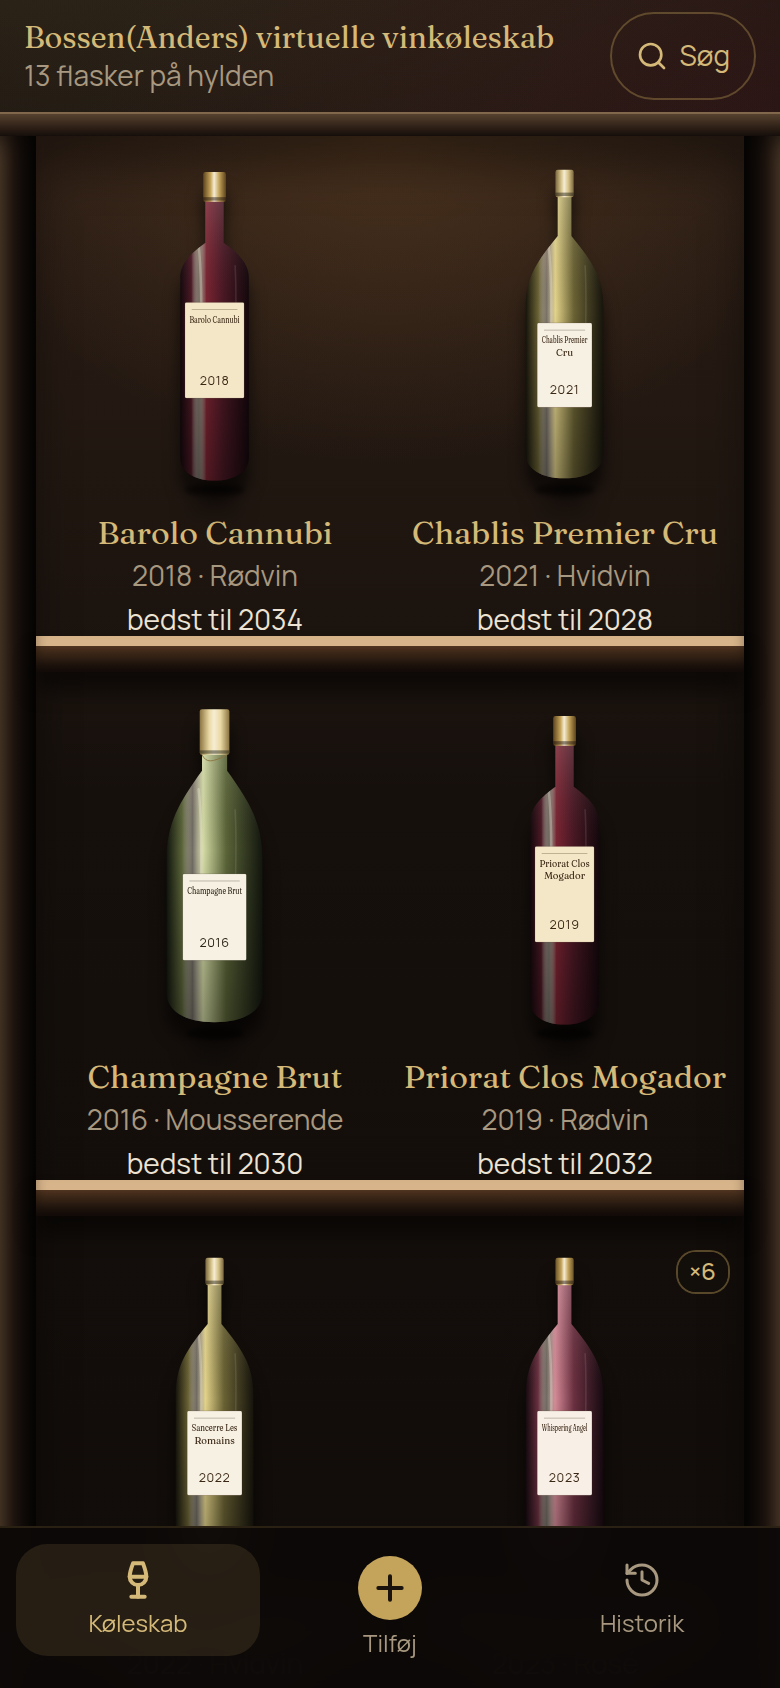
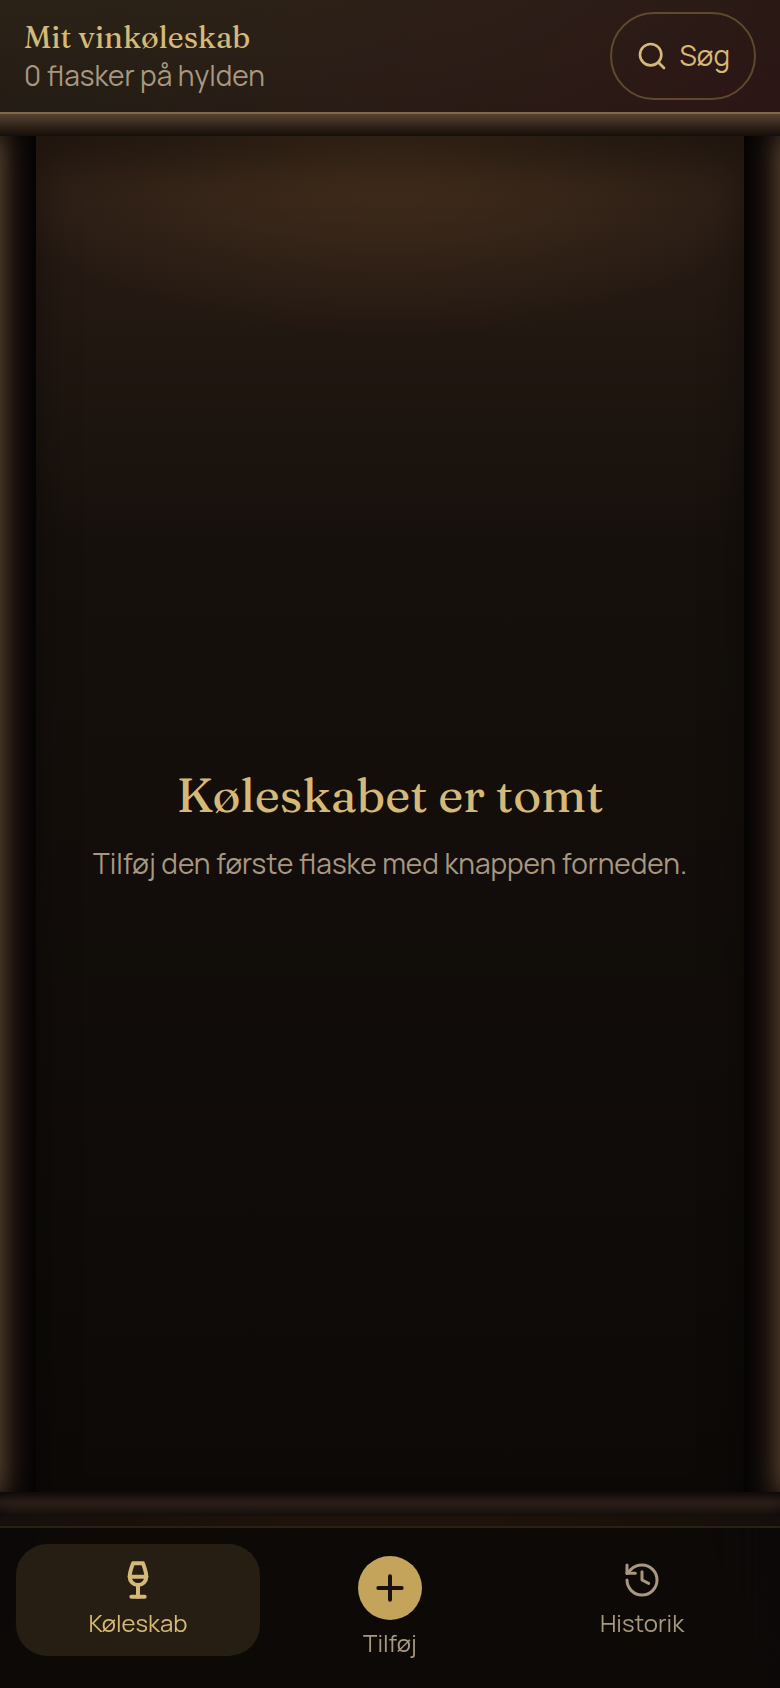
Start with an empty cabinet and the title Mit vinkøleskab. (#4)
New browsers no longer receive sample bottles. Cabinets already stored in localStorage stay as they are.

diff --git a/src/components/wine/add-wine-form.tsx b/src/components/wine/add-wine-form.tsx
@@ -23,6 +23,8 @@ import type { IdentifyResponse, WineSuggestion, WineType } from "@/lib/types";
 import { WINE_TYPE_LABELS, WINE_TYPES } from "@/lib/wine-types";
 import { useBottles } from "@/hooks/use-bottles";
 
+const initialStopped = { wineapi: false, off: false, gemini: false, grapeminds: false };
+
 const emptyForm = {
   name: "",
   producer: "",
@@ -67,8 +69,8 @@ export function AddWineForm() {
     toOffset?: number;
   } | null>(null);
   const [geminiAsk, setGeminiAsk] = useState(false);
-  const stoppedRef = useRef({ wineapi: false, off: false, gemini: false, grapeminds: false });
-  const [stopped, setStopped] = useState(stoppedRef.current);
+  const stoppedRef = useRef(initialStopped);
+  const [stopped, setStopped] = useState(initialStopped);
   const [error, setError] = useState<string | null>(null);
   const [info, setInfo] = useState<string | null>(null);
   const [imageDataUrl, setImageDataUrl] = useState<string | undefined>();
@@ -80,6 +82,68 @@ export function AddWineForm() {
   const [ownDates, setOwnDates] = useState(false);
   const [matched, setMatched] = useState<{ id: string; vintage?: number } | null>(null);
   const [wineProfile, setWineProfile] = useState<WineProfile | undefined>();
+
+  function stopProvider(provider: "wineapi" | "off" | "gemini" | "grapeminds", message: string) {
+    stoppedRef.current = { ...stoppedRef.current, [provider]: true };
+    setStopped(stoppedRef.current);
+    setError(message);
+  }
+
+  async function loadGrape(input: {
+    producer?: string;
+    name: string;
+    vintage?: number;
+    wineId?: number;
+    displayName?: string;
+    choiceProducer?: string;
+  }) {
+    grapeRequest.current = input;
+    if (!grapemindsOn || stoppedRef.current.grapeminds) return;
+    setGrape((current) => ({
+      status: "loading",
+      identity: input.wineId
+        ? {
+            wineId: input.wineId,
+            displayName: input.displayName ?? "",
+            producer: input.choiceProducer ?? input.producer ?? "",
+          }
+        : current?.identity,
+      choices: current?.choices,
+    }));
+    try {
+      const res = await fetch("/api/grapeminds-window", {
+        method: "POST",
+        headers: { "content-type": "application/json" },
+        body: JSON.stringify(input),
+      });
+      const data = (await res.json().catch(() => null)) as {
+        enabled?: boolean;
+        status?: "ready" | "ambiguous" | "unavailable" | "pending" | "stopped";
+        identity?: GrapeIdentity;
+        choices?: GrapeIdentity[];
+        fromOffset?: number;
+        toOffset?: number;
+      } | null;
+      if (!data?.enabled) {
+        setGrape({ status: "missing_key" });
+        return;
+      }
+      if (data.status === "stopped") {
+        stopProvider("grapeminds", "GrapeMinds er ikke tilgængeligt. Der prøves ikke igen.");
+        setGrape({ status: "stopped", identity: data.identity });
+        return;
+      }
+      setGrape({
+        status: data.status ?? "unavailable",
+        identity: data.identity,
+        choices: data.choices,
+        fromOffset: data.fromOffset,
+        toOffset: data.toOffset,
+      });
+    } catch {
+      setGrape({ status: "unavailable" });
+    }
+  }
 
   function applySuggestion(s: WineSuggestion) {
     const typedVintage = form.vintage.trim();
@@ -178,68 +242,6 @@ export function AddWineForm() {
     scanAbort.current?.abort();
     setScanBusy(null);
     setIdentifying(false);
-  }
-
-  async function loadGrape(input: {
-    producer?: string;
-    name: string;
-    vintage?: number;
-    wineId?: number;
-    displayName?: string;
-    choiceProducer?: string;
-  }) {
-    grapeRequest.current = input;
-    if (!grapemindsOn || stoppedRef.current.grapeminds) return;
-    setGrape((current) => ({
-      status: "loading",
-      identity: input.wineId
-        ? {
-            wineId: input.wineId,
-            displayName: input.displayName ?? "",
-            producer: input.choiceProducer ?? input.producer ?? "",
-          }
-        : current?.identity,
-      choices: current?.choices,
-    }));
-    try {
-      const res = await fetch("/api/grapeminds-window", {
-        method: "POST",
-        headers: { "content-type": "application/json" },
-        body: JSON.stringify(input),
-      });
-      const data = (await res.json().catch(() => null)) as {
-        enabled?: boolean;
-        status?: "ready" | "ambiguous" | "unavailable" | "pending" | "stopped";
-        identity?: GrapeIdentity;
-        choices?: GrapeIdentity[];
-        fromOffset?: number;
-        toOffset?: number;
-      } | null;
-      if (!data?.enabled) {
-        setGrape({ status: "missing_key" });
-        return;
-      }
-      if (data.status === "stopped") {
-        stopProvider("grapeminds", "GrapeMinds er ikke tilgængeligt. Der prøves ikke igen.");
-        setGrape({ status: "stopped", identity: data.identity });
-        return;
-      }
-      setGrape({
-        status: data.status ?? "unavailable",
-        identity: data.identity,
-        choices: data.choices,
-        fromOffset: data.fromOffset,
-        toOffset: data.toOffset,
-      });
-    } catch {
-      setGrape({ status: "unavailable" });
-    }
-  }
-
-  function stopProvider(provider: "wineapi" | "off" | "gemini" | "grapeminds", message: string) {
-    stoppedRef.current = { ...stoppedRef.current, [provider]: true };
-    setStopped(stoppedRef.current);
-    setError(message);
   }
 
   async function searchQuery(text: string, signal?: AbortSignal) {

diff --git a/src/lib/storage.test.ts b/src/lib/storage.test.ts
@@ -1,0 +1,71 @@
+import assert from "node:assert/strict";
+import { afterEach, test } from "node:test";
+import { loadBottles } from "./storage.ts";
+
+const BOTTLES_KEY = "winefridge.bottles.v1";
+const SEEDED_KEY = "winefridge.samples.seeded.v3";
+
+function installStorage(initial: Record<string, string> = {}) {
+  const data = new Map(Object.entries(initial));
+  const localStorage = {
+    getItem(key: string) {
+      return data.has(key) ? (data.get(key) ?? null) : null;
+    },
+    setItem(key: string, value: string) {
+      data.set(key, value);
+    },
+    removeItem(key: string) {
+      data.delete(key);
+    },
+    key(index: number) {
+      return [...data.keys()][index] ?? null;
+    },
+    get length() {
+      return data.size;
+    },
+  };
+  Object.defineProperty(globalThis, "window", {
+    configurable: true,
+    value: { localStorage },
+  });
+  return {
+    snapshot() {
+      return Object.fromEntries(data);
+    },
+  };
+}
+
+afterEach(() => {
+  delete (globalThis as { window?: unknown }).window;
+});
+
+test("a first visit adds nothing to localStorage", () => {
+  const storage = installStorage();
+  assert.deepEqual(loadBottles(), []);
+  assert.deepEqual(storage.snapshot(), {});
+});
+
+test("saved bottles stay byte-for-byte in localStorage", () => {
+  const raw = JSON.stringify([
+    {
+      id: "kept-1",
+      name: "Egen Barolo",
+      quantity: 2,
+      status: "in_fridge",
+      addedAt: "2026-01-01",
+      notes: "ikke et eksempel",
+    },
+  ]);
+  const storage = installStorage({ [BOTTLES_KEY]: raw, [SEEDED_KEY]: "1" });
+  const loaded = loadBottles();
+  assert.equal(loaded.length, 1);
+  assert.equal(loaded[0]?.name, "Egen Barolo");
+  assert.equal(loaded[0]?.quantity, 2);
+  assert.deepEqual(storage.snapshot(), { [BOTTLES_KEY]: raw, [SEEDED_KEY]: "1" });
+});
+
+test("an emptied cabinet is not filled with examples", () => {
+  const storage = installStorage({ [BOTTLES_KEY]: "[]" });
+  assert.deepEqual(loadBottles(), []);
+  assert.deepEqual(storage.snapshot(), { [BOTTLES_KEY]: "[]" });
+});

diff --git a/src/hooks/use-bottles.ts b/src/hooks/use-bottles.ts
@@ -1,6 +1,6 @@
 "use client";
 
-import { useCallback, useEffect, useState, useSyncExternalStore } from "react";
+import { useCallback, useEffect, useSyncExternalStore } from "react";
 import type { Bottle } from "@/lib/types";
 import {
   loadBottles,
@@ -11,6 +11,7 @@ import {
 } from "@/lib/storage";
 
 let memory: Bottle[] = [];
+let ready = false;
 const EMPTY: Bottle[] = [];
 const listeners = new Set<() => void>();
 
@@ -31,18 +32,26 @@ function getServerSnapshot(): Bottle[] {
   return EMPTY;
 }
 
+function getReadySnapshot() {
+  return ready;
+}
+
+function getReadyServerSnapshot() {
+  return false;
+}
+
 function setMemory(next: Bottle[]) {
   memory = next;
+  ready = true;
   emit();
 }
 
 export function useBottles() {
-  const [hydrated, setHydrated] = useState(false);
+  const hydrated = useSyncExternalStore(subscribe, getReadySnapshot, getReadyServerSnapshot);
   const bottles = useSyncExternalStore(subscribe, getSnapshot, getServerSnapshot);
 
   useEffect(() => {
     setMemory(loadBottles());
-    setHydrated(true);
   }, []);
 
   const addBottle = useCallback((bottle: Bottle) => {

diff --git a/src/lib/storage.ts b/src/lib/storage.ts
@@ -1,5 +1,4 @@
 import type { Bottle } from "@/lib/types";
-import { SAMPLE_BOTTLES, SAMPLE_SEEDED_KEY } from "@/lib/sample-bottles";
 
 const STORAGE_KEY = "winefridge.bottles.v1";
 
@@ -16,21 +15,9 @@ export function loadBottles(): Bottle[] {
   if (!canUseStorage()) return [];
   try {
     const raw = window.localStorage.getItem(STORAGE_KEY);
-    if (!raw) {
-      if (!window.localStorage.getItem(SAMPLE_SEEDED_KEY)) {
-        saveBottles(SAMPLE_BOTTLES);
-        window.localStorage.setItem(SAMPLE_SEEDED_KEY, "1");
-        return SAMPLE_BOTTLES.map(normalizeBottle);
-      }
-      return [];
-    }
+    if (!raw) return [];
     const parsed = JSON.parse(raw) as Bottle[];
     if (!Array.isArray(parsed)) return [];
-    if (parsed.length === 0 && !window.localStorage.getItem(SAMPLE_SEEDED_KEY)) {
-      saveBottles(SAMPLE_BOTTLES);
-      window.localStorage.setItem(SAMPLE_SEEDED_KEY, "1");
-      return SAMPLE_BOTTLES.map(normalizeBottle);
-    }
     return parsed.map(normalizeBottle);
   } catch {
     return [];

diff --git a/src/lib/open-food-facts.ts b/src/lib/open-food-facts.ts
@@ -6,7 +6,7 @@ const cache = new Map<string, OffSuggestion | null>();
 export async function lookupOpenFoodFacts(code: string, signal: AbortSignal): Promise<OffSuggestion | null> {
   if (cache.has(code)) return cache.get(code) ?? null;
   const res = await fetch(`https://world.openfoodfacts.org/api/v3/product/${encodeURIComponent(code)}.json`, {
-    headers: { "User-Agent": "BossenWinefridge/1.0 (personal cellar)" },
+    headers: { "User-Agent": "Winefridge/1.0 (personal cellar)" },
     signal,
   });
   if (res.status === 429) {

diff --git a/src/app/layout.tsx b/src/app/layout.tsx
@@ -14,14 +14,14 @@ const sans = Manrope({
 });
 
 export const metadata: Metadata = {
-  title: "Winefridge",
+  title: "Mit vinkøleskab",
   description:
     "Personligt vinkøleskab: fotografer flasker, registrér dem, og se hvornår de er bedst at drikke.",
-  applicationName: "Winefridge",
+  applicationName: "Mit vinkøleskab",
   appleWebApp: {
     capable: true,
     statusBarStyle: "black-translucent",
-    title: "Winefridge",
+    title: "Mit vinkøleskab",
   },
   formatDetection: {
     telephone: false,

diff --git a/src/app/page.tsx b/src/app/page.tsx
@@ -59,7 +59,7 @@ export default function HomePage() {
       <div className="flex items-center gap-2 px-3 py-1.5 pt-[max(0.4rem,env(safe-area-inset-top,0px))]">
         <div className="min-w-0 flex-1">
           <h1 className="font-[family-name:var(--font-display)] text-[0.95rem] leading-tight text-[var(--brass)]">
-            Bossen(Anders) virtuelle vinkøleskab
+            Mit vinkøleskab
           </h1>
           <p className="text-sm text-muted-foreground">{countLabel}</p>
         </div>

diff --git a/src/components/app-header.tsx b/src/components/app-header.tsx
@@ -9,7 +9,7 @@ export function AppHeader() {
   return (
     <header className="sticky top-0 z-40 bg-[#120e0b] px-4 py-2 pt-[max(0.45rem,env(safe-area-inset-top,0px))] shadow-[0_10px_0_#120e0b]">
       <p className="truncate font-[family-name:var(--font-display)] text-sm leading-tight text-[var(--brass)]">
-        Bossen(Anders) virtuelle vinkøleskab
+        Mit vinkøleskab
       </p>
     </header>
   );

diff --git a/README.md b/README.md
@@ -9,12 +9,12 @@
 ![TypeScript](https://img.shields.io/badge/TypeScript-3178C6?style=flat&logo=typescript&logoColor=white)
 ![Tailwind CSS](https://img.shields.io/badge/Tailwind_CSS-4-38BDF8?style=flat&logo=tailwindcss&logoColor=white)
 
-**Bossen(Anders) virtuelle vinkøleskab.** A phone-first cabinet for one person's bottles: photograph a label, keep the inventory on this device, and see when a bottle is ready to drink.
+**Mit vinkøleskab.** A phone-first cabinet for one person's bottles: photograph a label, keep the inventory on this device, and see when a bottle is ready to drink.
 
 **Public site:** [winefridge.gundelach.pw](https://winefridge.gundelach.pw)
 
 <p align="center">
-  <img src="docs/images/home.png" alt="The open cabinet on a phone. The title is Bossen(Anders) virtuelle vinkøleskab, with two bottles on each wooden shelf." width="280">
+  <img src="docs/images/home.png" alt="The open cabinet on a phone. The title is Mit vinkøleskab, and the shelves are empty until a bottle is added." width="280">
 </p>
 
 ---
@@ -28,7 +28,7 @@
 | **Flaske** | One bottle's details. **Tag ud** asks for confirmation and can take part of a case. |
 | **Historik** | Bottles that have left the cabinet. |
 
-The first visit in a browser seeds a few example bottles. They live only in that browser.
+A new browser starts with an empty cabinet. Bottles are added with **Tilføj**.
 
 Wine types are rød, hvid, rosé, mousserende, portvin, madeira, sherry, dessert, orange and anden. The drawn bottle follows the type. A saved label photo replaces the printed name on the bottle.
 
@@ -71,4 +71,4 @@ The repository has no lockfile, so the install command is `npm install`.
 | Lint | `npm run lint` |
 | Shelf and label tests | `npm test` |
 
-`npm test` covers how bottles are grouped on a shelf, the short drinking-window line, and that a label only repeats the wine's own name and year.
+`npm test` covers how bottles are grouped on a shelf, the short drinking-window line, that a label only repeats the wine's own name and year, and that a visit does not write example bottles into `localStorage`.
